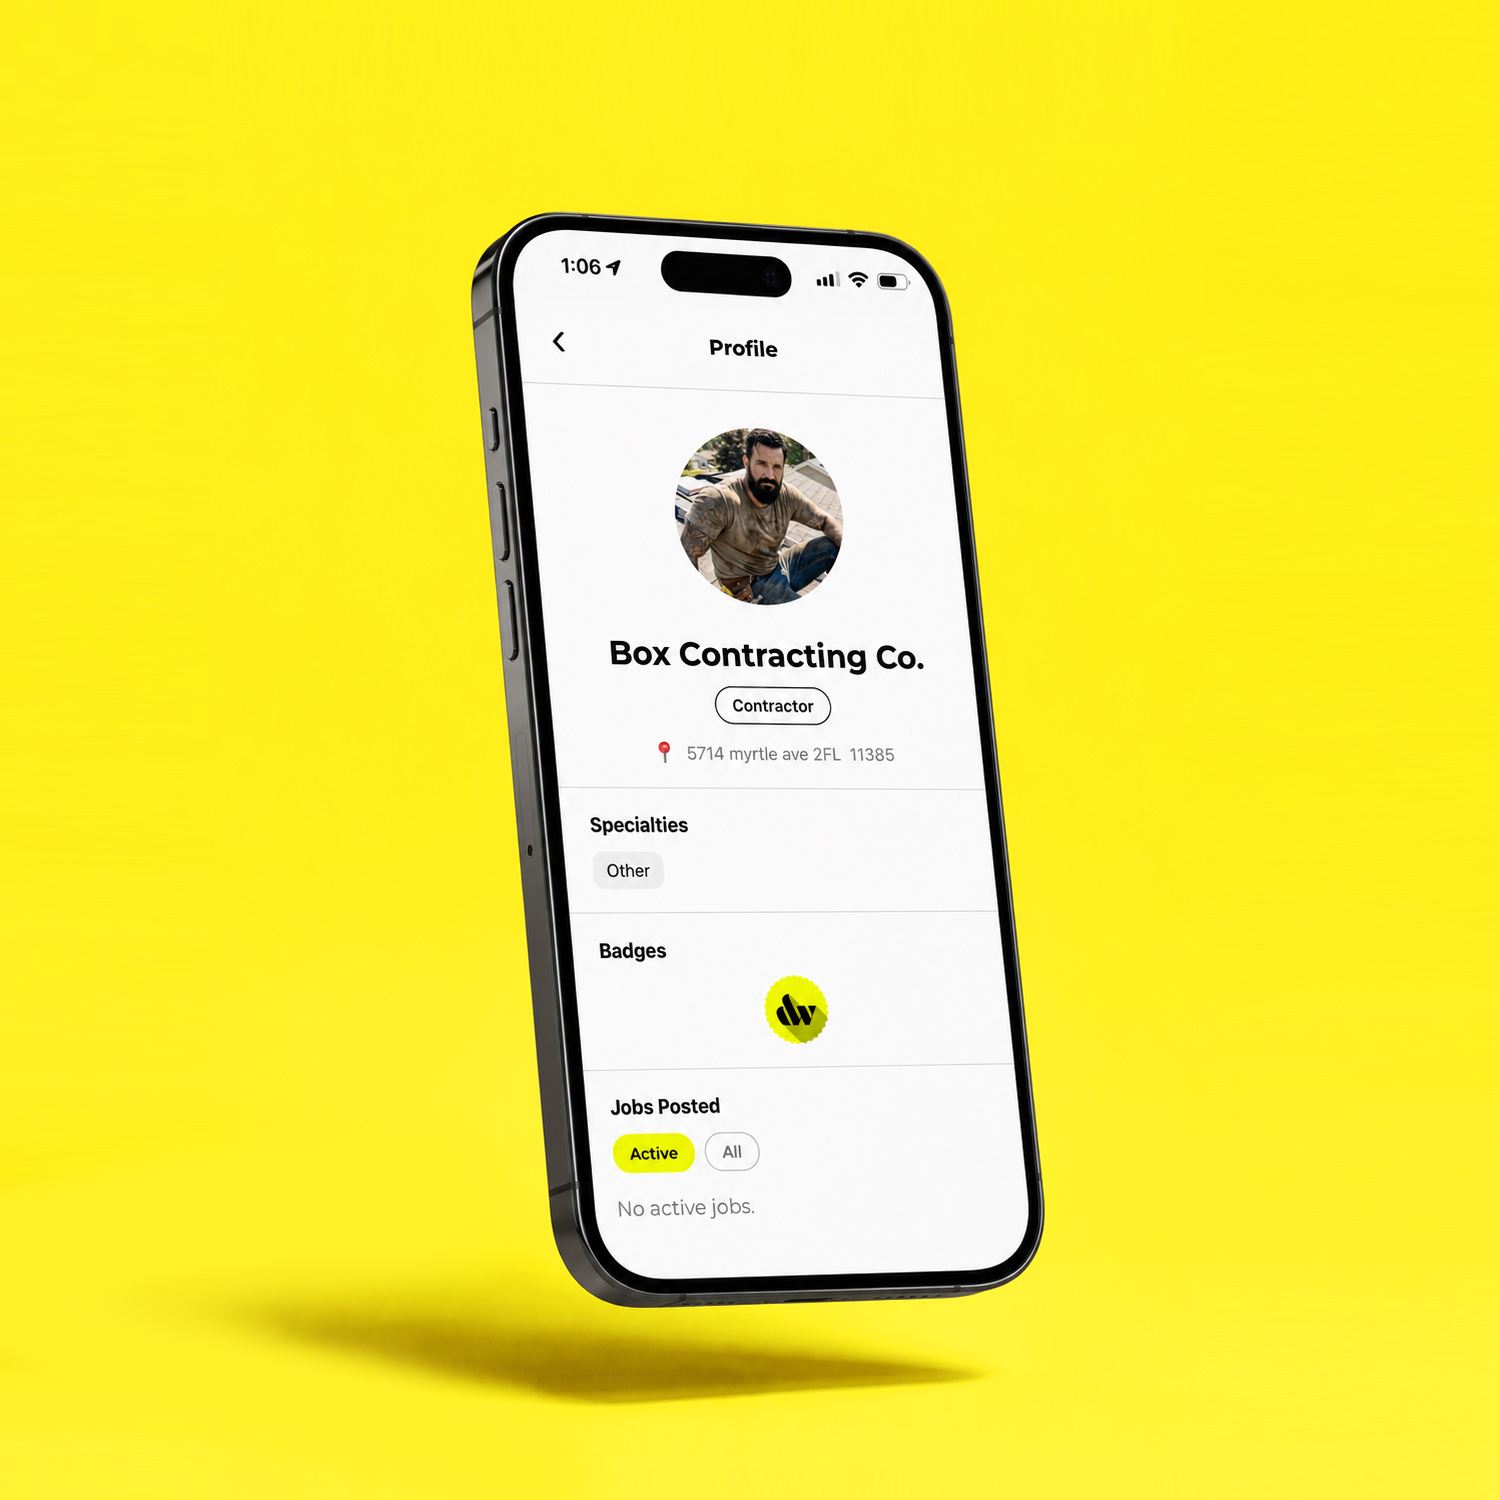
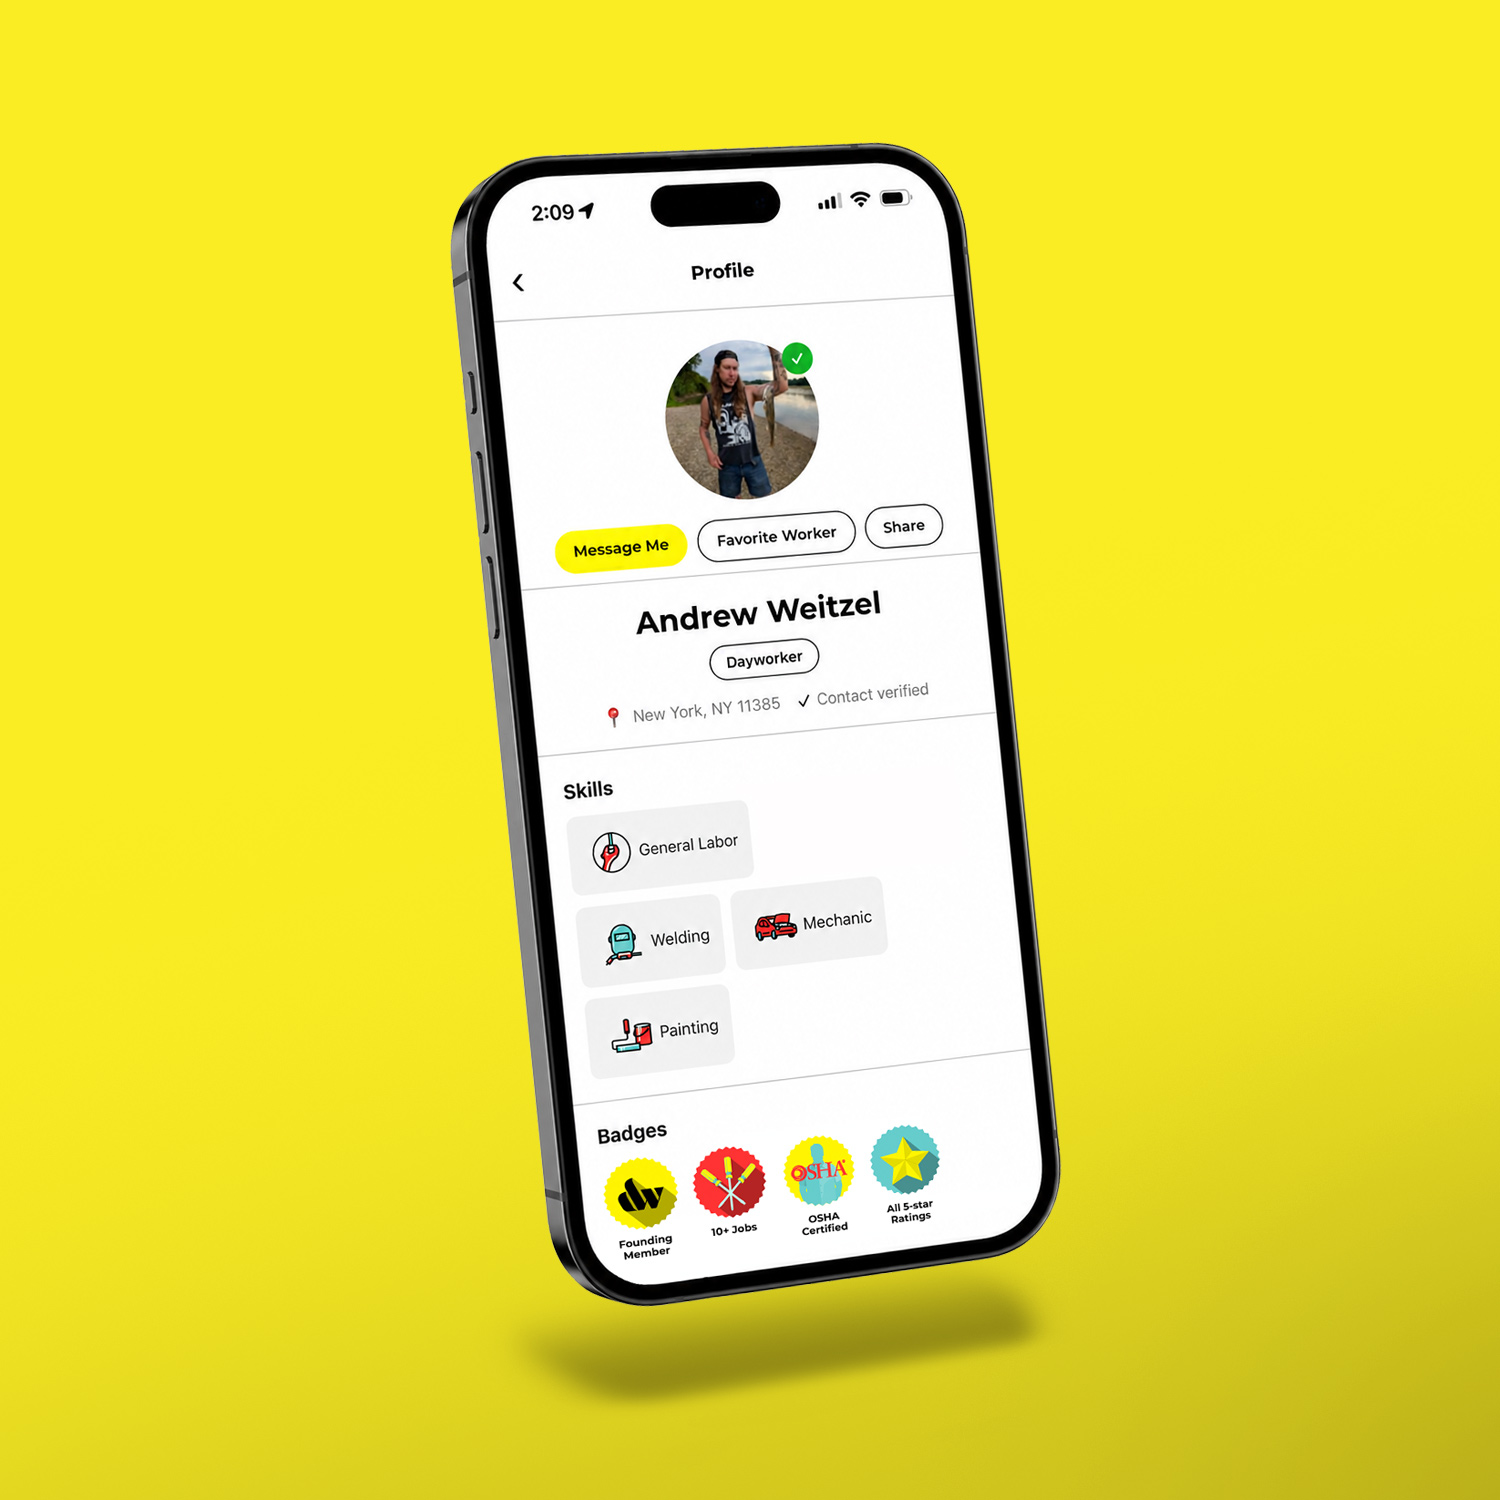
Angled yellow transition into features; pulsing video CTA
- Updated badges mockup
- The video CTA inverts twice then rests, on a loop, to draw the eye; it
  hands back to the cascade on hover and stands still under
  prefers-reduced-motion
- A yellow wedge carries the section above down at an angle across the top
  of features. The asset needed preserveAspectRatio="none": without it the
  artwork holds its ratio and sits centred at its native 600px, no matter
  how the box it is painted into is sized

Changed region(s): [[0.0, 0.092, 1.0, 1.0], [0.4907, 0.6133, 0.552, 0.7053]]

diff --git a/components/Features.tsx b/components/Features.tsx
@@ -38,7 +38,21 @@ function FeatureCell({
  */
 export default function Features() {
   return (
-    <section id="features" className="bg-white">
+    <section id="features" className="relative bg-white">
+      {/* Carries the yellow of the section above down at an angle: full width,
+          fixed 64px height, so the wedge shallows out as the viewport widens.
+          The file carries preserveAspectRatio="none" — without it the artwork
+          keeps its ratio and sits centred at 600px inside whatever box it's
+          given, however the box itself is sized. */}
+      <div
+        aria-hidden="true"
+        className="pointer-events-none absolute inset-x-0 top-0 h-16"
+        style={{
+          backgroundImage: "url(/images/yellow-slash.svg)",
+          backgroundSize: "100% 100%",
+          backgroundRepeat: "no-repeat",
+        }}
+      />
       <div className="px-5 pb-16 pt-28 md:px-10 md:pb-24 md:pt-44">
         <div className="grid grid-cols-1 gap-12 lg:grid-cols-12">
           <Reveal dir="right" className="lg:col-span-3">

diff --git a/app/globals.css b/app/globals.css
@@ -44,6 +44,51 @@
     }
   }
 
+  /* Attention pulse on the hero's video CTA: two hard inversions, then a rest.
+     Stepped, not eased — the page's functional motion is jolty throughout. */
+  @keyframes attention-invert {
+    0%,
+    69.9% {
+      background-color: #fbed23;
+      color: #000000;
+    }
+    70%,
+    77.9% {
+      background-color: #000000;
+      color: #fbed23;
+    }
+    78%,
+    85.9% {
+      background-color: #fbed23;
+      color: #000000;
+    }
+    86%,
+    93.9% {
+      background-color: #000000;
+      color: #fbed23;
+    }
+    94%,
+    100% {
+      background-color: #fbed23;
+      color: #000000;
+    }
+  }
+
+  .attention {
+    animation: attention-invert 3s linear infinite;
+  }
+
+  /* Hand the element back to the cascade so the button's own hover wins. */
+  .attention:hover {
+    animation: none;
+  }
+
+  @media (prefers-reduced-motion: reduce) {
+    .attention {
+      animation: none;
+    }
+  }
+
   @keyframes slice-up {
     from {
       transform: translateY(101%);

diff --git a/components/Hero.tsx b/components/Hero.tsx
@@ -105,7 +105,7 @@ export default function Hero() {
           {/* Same treatment as the app button: house Btn inside a tinted-blur
               slab with a hard keyline. */}
           <div className="flex h-[79px] items-center gap-3 border-[3px] border-black bg-white/70 px-3 backdrop-blur-md">
-            <Btn onClick={show}>
+            <Btn onClick={show} className="attention">
               <PlayIcon className="h-[1.1em] w-[1.1em]" />
               <span>Dayworker video</span>
             </Btn>

diff --git a/components/AppCTA.tsx b/components/AppCTA.tsx
@@ -17,8 +17,7 @@ export default function AppCTA() {
           </Reveal>
           <Reveal dir="up" delay={60}>
             <h2 className="display text-[clamp(2.4rem,5.2vw,5rem)]">
-              Download the app, build your profile, and post or apply for jobs
-              in a matter of moments.
+              Get the app, create a profile, and post or apply for jobs today.
             </h2>
           </Reveal>
           <Reveal dir="up" delay={180} className="flex flex-wrap gap-5">
